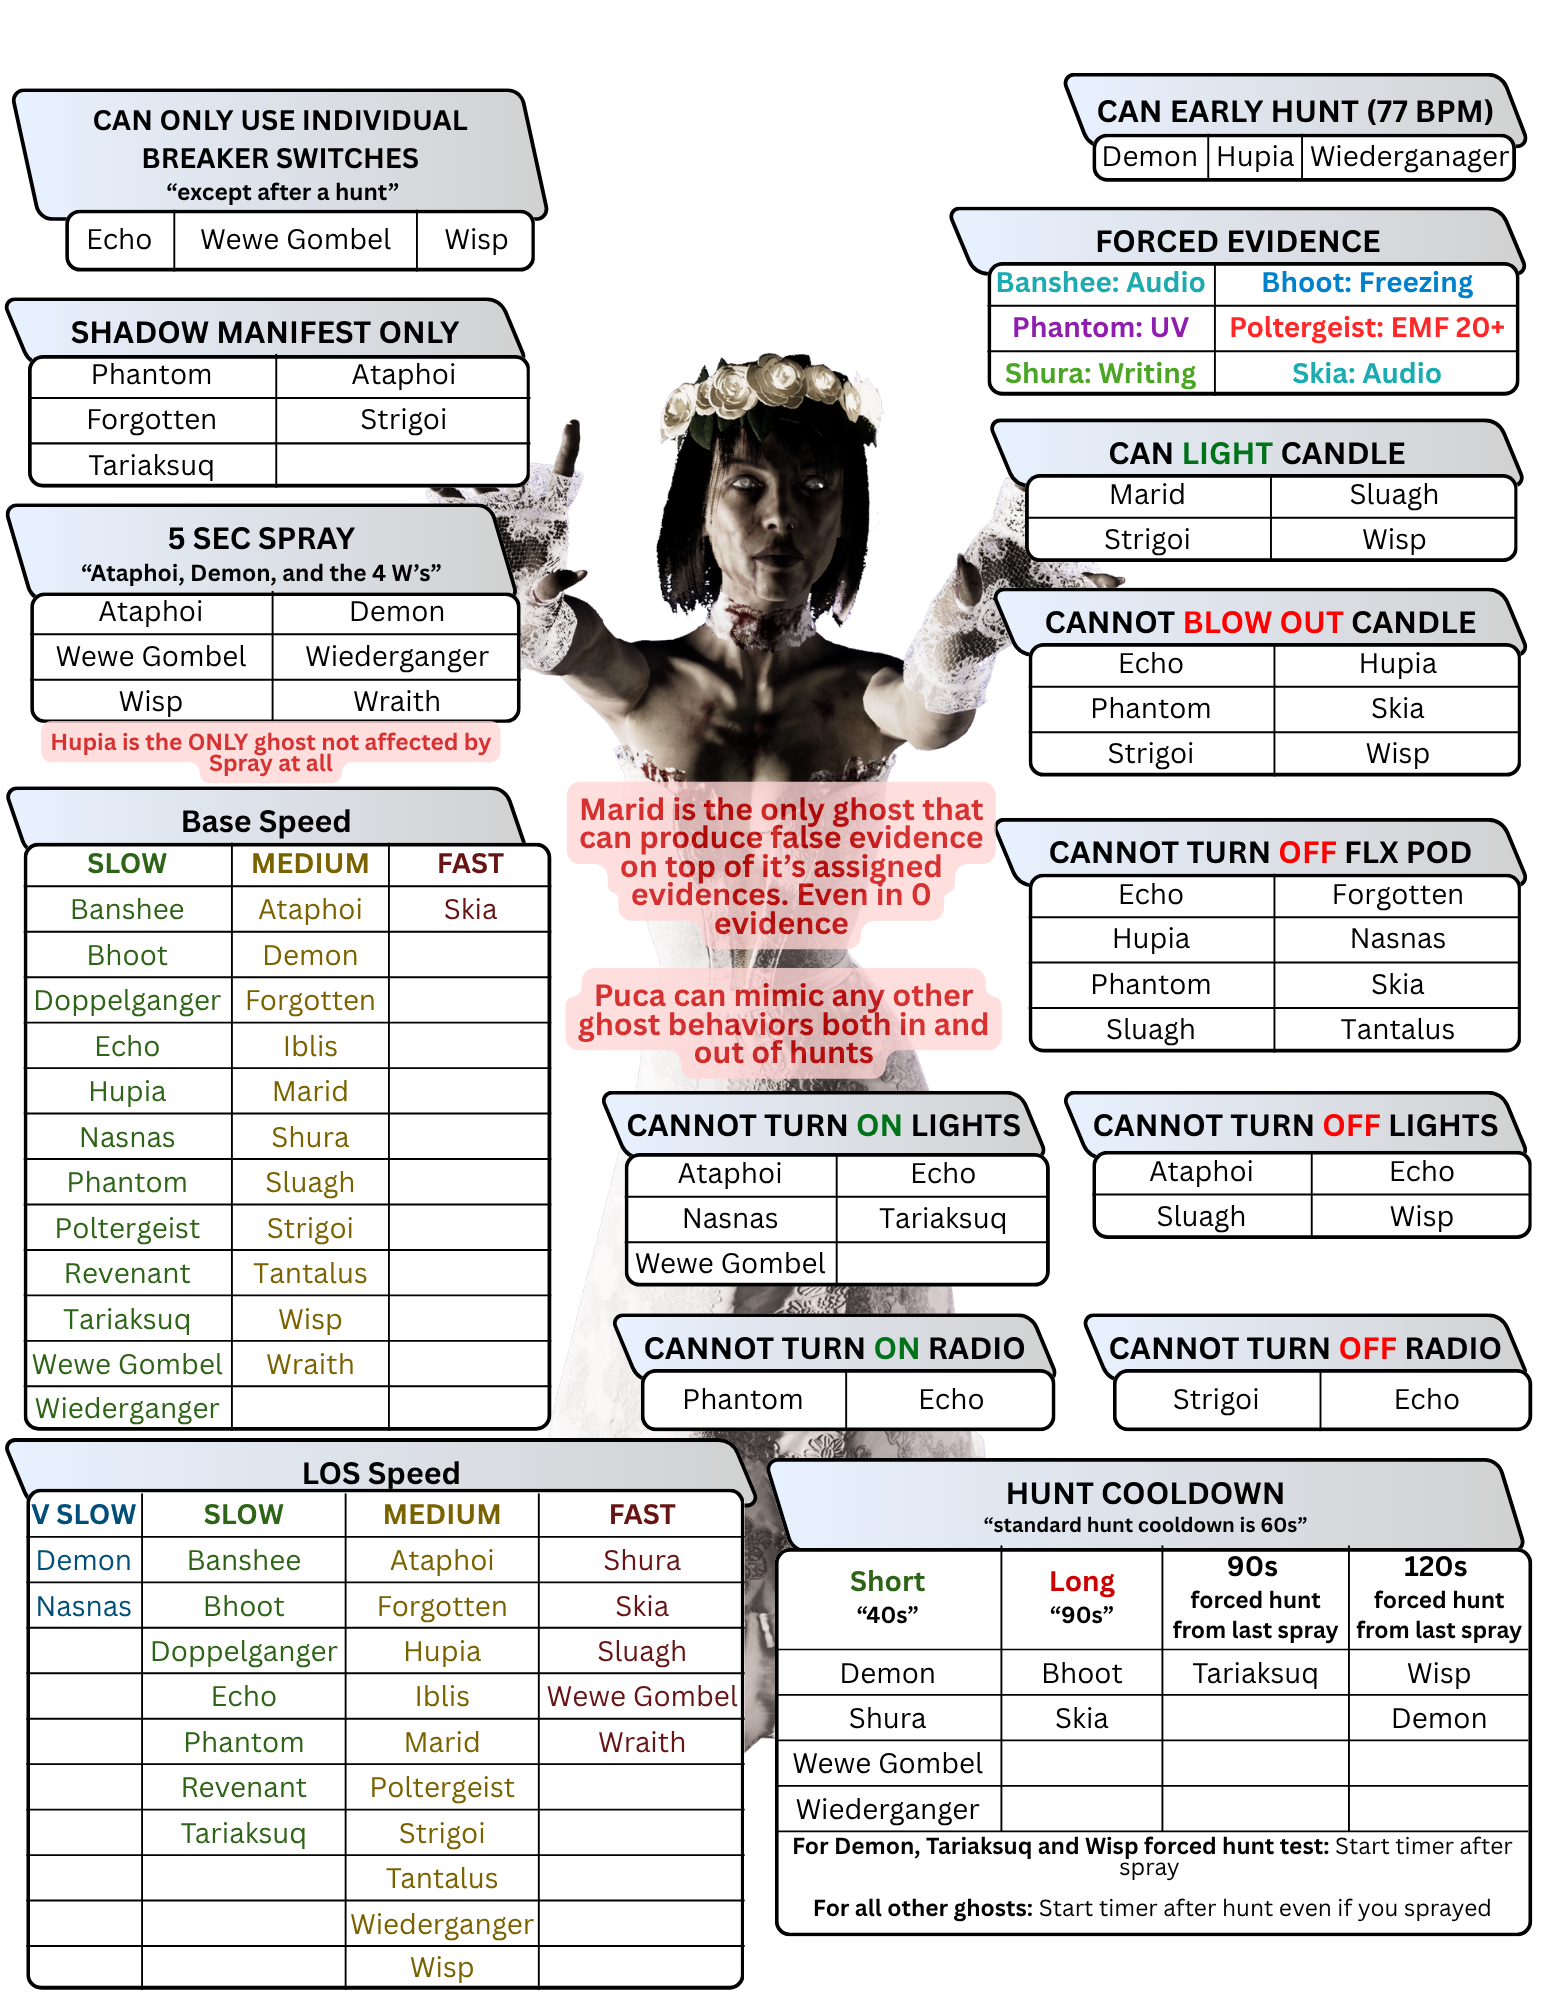
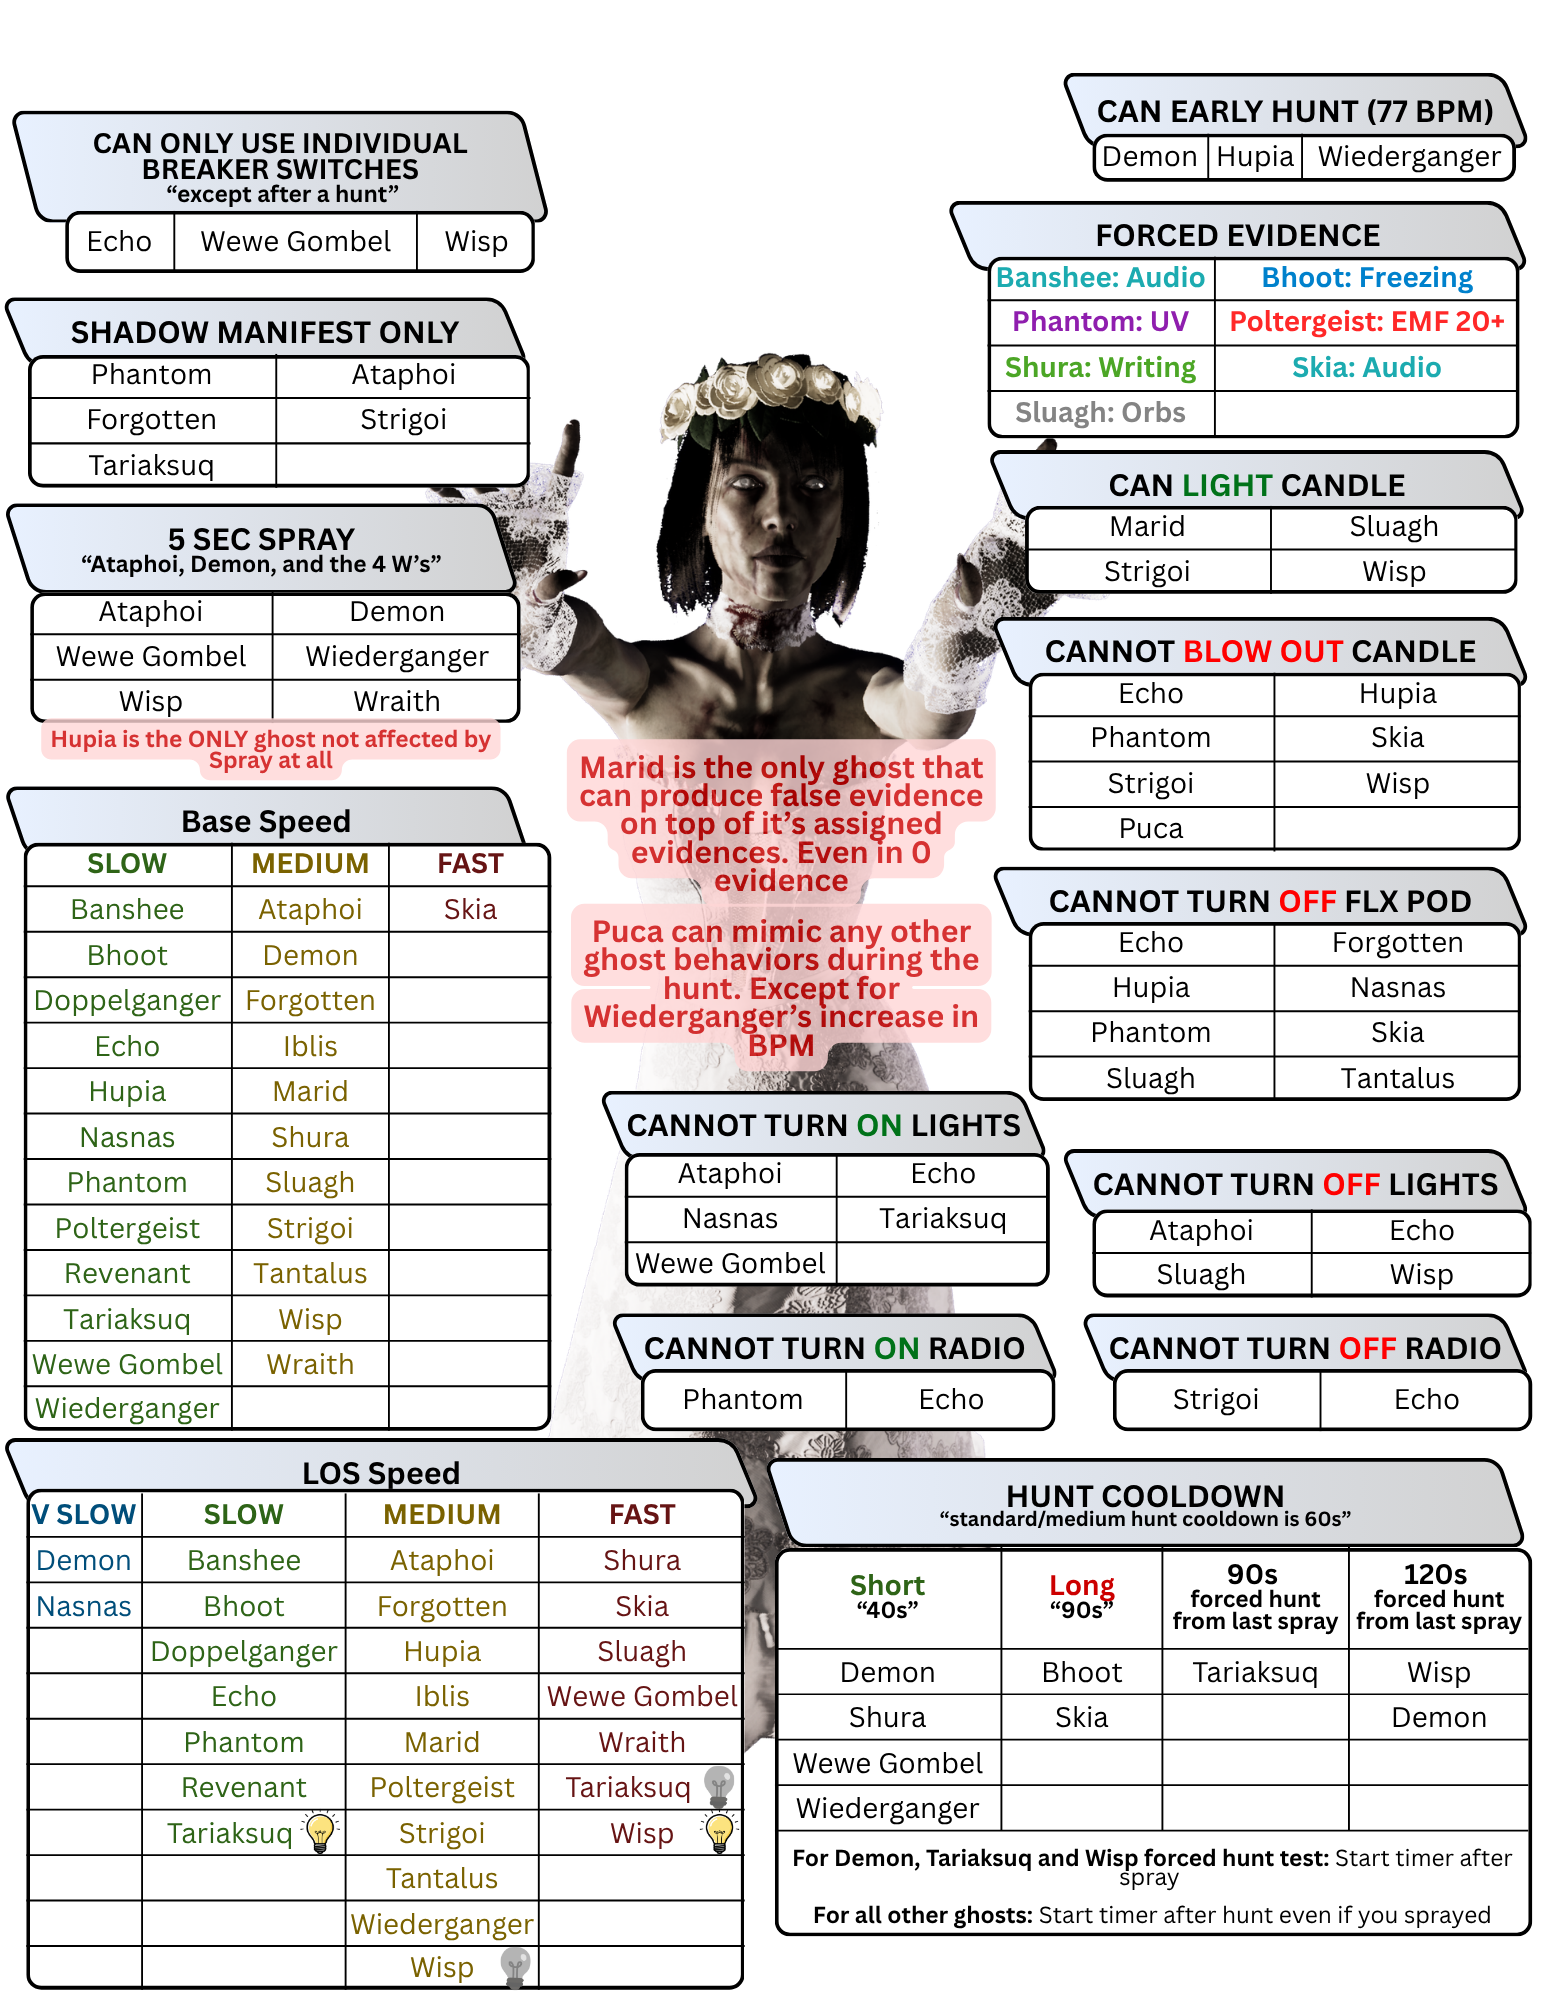
v2.0.8.2
- Moved footer links and theme selector to the true bottom of the app on mobile
- Desktop layout remains unchanged
- Removed the tracker version and game version text
- Replaced QB's Cheatsheet with updated version
- No gameplay or filtering logic changed

diff --git a/Index.html b/Index.html
@@ -700,7 +700,12 @@
         .footer-link { font-size: 0.7rem; color: #ffffff; text-align: center; margin-top: 20px; margin-bottom: 10px; }
         .footer-link a { color: var(--accent); text-decoration: none; font-weight: bold; }
         .footer-link a:hover { text-decoration: underline; }
-        .compatibility-note { font-size: 0.65rem; color: var(--text-dim); text-align: center; margin-top: -5px; margin-bottom: 10px; }
+        .mobile-footer-mount { display: none; }
+        @media screen and (max-width: 768px) {
+            .mobile-footer-mount {
+                display: block; width: 100%; padding: 0 15px 18px; background: var(--bg-content);
+            }
+        }
     </style>
 </head>
 <body>
@@ -761,16 +766,15 @@
                     </div>
                 </div>
 
-                <div class="footer-link">The Other Side <a href="https://theotherside-game.fandom.com/wiki/The_Other_Side_Wiki" target="_blank">Wiki</a> - Created by nena</div>
-                <div class="footer-link">P.M.S. Tracker (Identify Assistant) and <a href="https://p8riot.github.io/tos-cleanse-assistant/cleanse.html" target="_blank">A.S.S. Profiler</a> (Cleanse Assistant) - Created by <a href="https://linktr.ee/p8riot" target="_blank">p8riot</a></div>
-                <div class="compatibility-note">P.M.S. Tracker version 2.0.8.1</div>
-                <div class="compatibility-note">Compatible with game version 0.9.8.1</div>
-                <div class="theme-control">
+                <div id="footerWikiLink" class="footer-link">The Other Side <a href="https://theotherside-game.fandom.com/wiki/The_Other_Side_Wiki" target="_blank">Wiki</a> - Created by nena</div>
+                <div id="footerCreditsLink" class="footer-link">P.M.S. Tracker (Identify Assistant) and <a href="https://p8riot.github.io/tos-cleanse-assistant/cleanse.html" target="_blank">A.S.S. Profiler</a> (Cleanse Assistant) - Created by <a href="https://linktr.ee/p8riot" target="_blank">p8riot</a></div>
+                <div id="footerThemeControl" class="theme-control">
                     <label for="themeSelect">Theme</label>
                     <select id="themeSelect" class="theme-select" onchange="setTheme(this.value)" aria-label="Color theme">
                         <option value="default">Default Purple</option>
                     </select>
                 </div>
+                <div id="footerDesktopAnchor" hidden></div>
             </div>
         </div>
 
@@ -974,6 +978,7 @@
         </div>
     </div>
 
+    <div id="mobileFooterMount" class="mobile-footer-mount" aria-label="App links and theme"></div>
 
     <div id="mobileGhostDrawer" class="mobile-ghost-drawer" aria-label="Possible ghosts quick view">
         <section id="mobileGhostPanel" class="mobile-ghost-panel" aria-hidden="true">
@@ -3489,6 +3494,26 @@
             }
         }
 
+        function updateResponsiveFooterPlacement() {
+            const sidebarScroll = document.querySelector('.sidebar-scroll');
+            const desktopAnchor = document.getElementById('footerDesktopAnchor');
+            const mobileMount = document.getElementById('mobileFooterMount');
+            if (!sidebarScroll || !desktopAnchor || !mobileMount) return;
+
+            const footerItems = [
+                document.getElementById('footerWikiLink'),
+                document.getElementById('footerCreditsLink'),
+                document.getElementById('footerThemeControl')
+            ].filter(Boolean);
+            const useMobileFooter = window.matchMedia('(max-width: 768px)').matches;
+
+            if (useMobileFooter) {
+                footerItems.forEach(item => mobileMount.appendChild(item));
+            } else {
+                footerItems.forEach(item => sidebarScroll.insertBefore(item, desktopAnchor));
+            }
+        }
+
         window.addEventListener('DOMContentLoaded', () => {
             const container = document.getElementById('evidence-container');
             evidenceTypes.forEach(ev => {
@@ -3515,7 +3540,12 @@
             updateUndoAndHistoryUI();
             updateBetaAssistant();
             initPmsInstallExperience();
-        window.addEventListener('resize', () => { if (!isPhoneGhostDrawerViewport()) setMobileGhostDrawerOpen(false); else renderMobileGhostDrawer(); });
+            updateResponsiveFooterPlacement();
+            window.addEventListener('resize', () => {
+                updateResponsiveFooterPlacement();
+                if (!isPhoneGhostDrawerViewport()) setMobileGhostDrawerOpen(false);
+                else renderMobileGhostDrawer();
+            });
         });
 
         function cycleRealLimit() {
